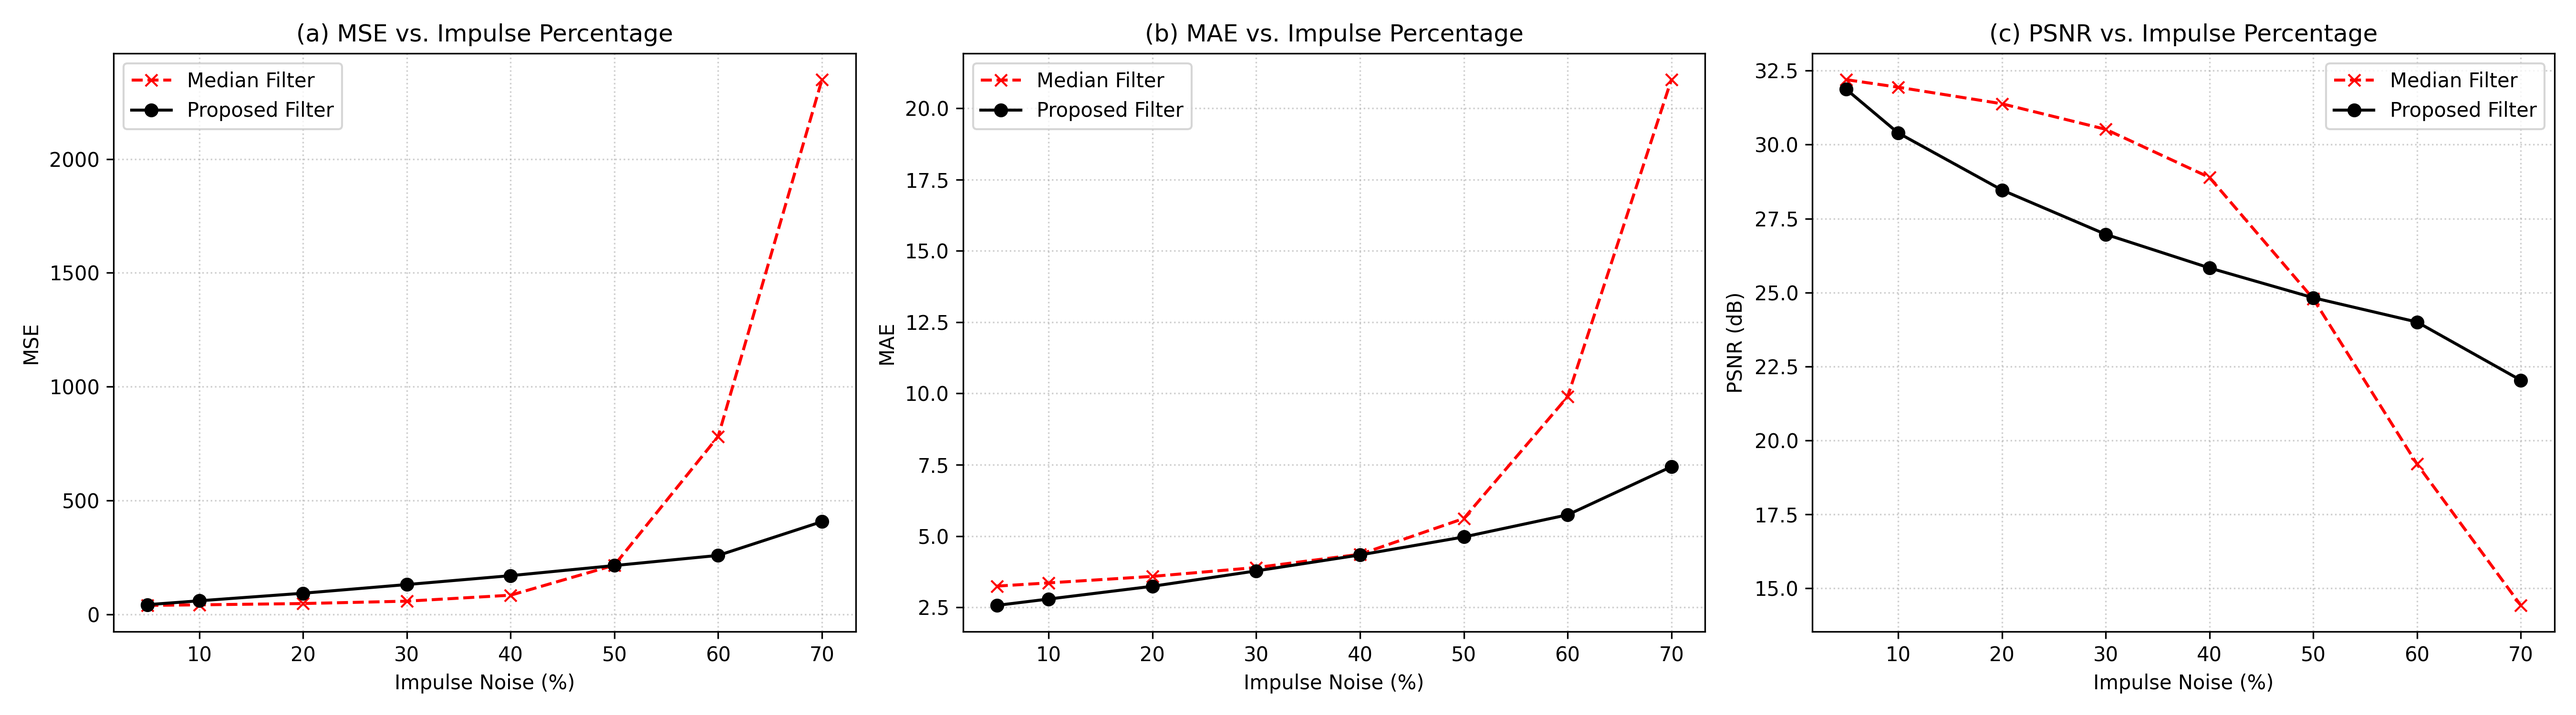
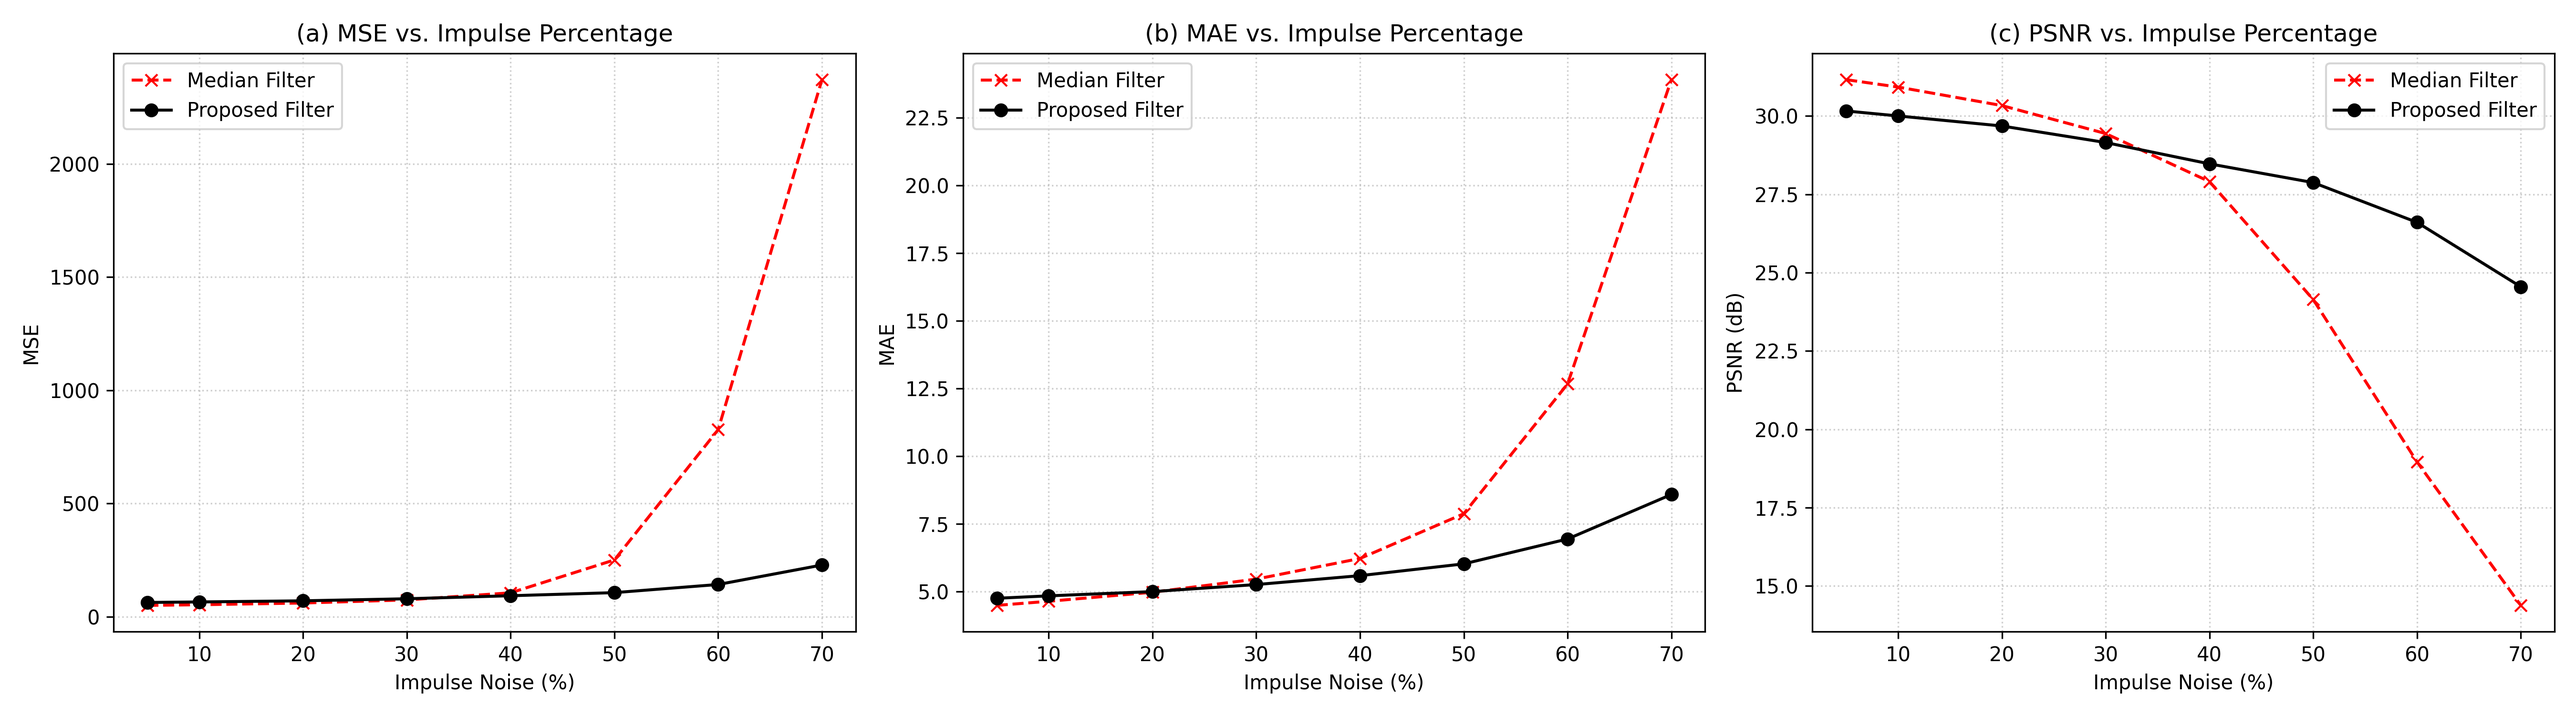
Updated inference flow

diff --git a/evaluate.py b/evaluate.py
@@ -4,91 +4,124 @@ import pandas as pd
 import time
 from src.filters import selective_peeling_filter, fuzzy_weighted_linear_filter
 from src.utils import mse, mae, psnr, add_salt_pepper, add_gaussian_noise
+import matplotlib.pyplot as plt
 
-def run_hybrid_filter(img, peel_iter=2, fuzzy_sigma=10.0):
-    # Bước 1: Bộ lọc phi tuyến (Peeling) để loại bỏ nhiễu xung
-    # Threshold=25 và Iterations=2 là tham số khuyến nghị cho ảnh nhiều nhiễu
-    step1 = selective_peeling_filter(img, window_size=5, threshold=25, iterations=peel_iter)
+def run_hybrid_filter(img, peel_iter=2, fuzzy_sigma=130.0):
+    step1 = selective_peeling_filter(img, window_size=5, threshold=30, iterations=peel_iter)
     
-    # Bước 2: Bộ lọc tuyến tính (Fuzzy) để loại bỏ nhiễu Gaussian còn sót và làm mịn
     step2 = fuzzy_weighted_linear_filter(step1, window_size=5, sigma=fuzzy_sigma)
     return step2
 
-def evaluate_table_2(original_img):
-    """
-    Tái tạo Table 2: So sánh MSE, MAE, PSNR theo % nhiễu xung (Impulse Noise).
-    Chạy từ 5% đến 60% như bài báo.
-    """
-    print("\n" + "="*60)
-    print("GENERATING TABLE 2: Performance vs Impulse Noise Density")
-    print("Note: Chạy trên ảnh gốc, vui lòng đợi...")
-    print("="*60)
-    
-    # Các mức nhiễu cần test (tương tự Table 2 trong bài báo)
-    noise_levels = [0.05, 0.10, 0.20, 0.30, 0.40, 0.50, 0.60]
-    results = []
+def evaluate_1(original_img):
+    print("Đang tính toán các chỉ số cho biểu đồ (sẽ mất vài phút)...")
 
-    for p in noise_levels:
-        print(f"Processing noise level: {int(p*100)}%...", end=" ", flush=True)
-        start_t = time.time()
+    noise_percents = [5, 10, 20, 30, 40, 50, 60, 70]
+
+    g_sigma = 10
+    
+    # Lưu kết quả
+    metrics = {
+        "mse": {"hybrid": [], "median": []},
+        "mae": {"hybrid": [], "median": []},
+        "psnr": {"hybrid": [], "median": []}
+    }
+
+    for p in noise_percents:
+        prob = p / 100.0
+        print(f"Processing noise: {p}%...", end=" ", flush=True)
         
-        # 1. Tạo ảnh nhiễu muối tiêu
-        noisy_img = add_salt_pepper(original_img, prob=p)
+        noisy_img = add_gaussian_noise(original_img, mean=0, sigma=g_sigma)
+        noisy_img = add_salt_pepper(noisy_img, prob=prob)
         
-        # 2. Chạy Filter của BẠN (Proposed Hybrid)
-        # Với nhiễu cao (>30%), tăng số lần peeling lên để hiệu quả hơn
-        iters = 2 if p < 0.4 else 3
+        # --- Filter 1: Proposed Hybrid ---
+        # Tăng số lần peel với nhiễu cao để hiệu quả hơn (như bài báo gợi ý)
+        iters = 2 if prob < 0.4 else 4
         hybrid_res = run_hybrid_filter(noisy_img, peel_iter=iters)
         
-        # 3. Chạy Median Filter (OpenCV chuẩn) để so sánh
+        # --- Filter 2: Standard Median (OpenCV) ---
         median_res = cv2.medianBlur(noisy_img, 5)
         
-        elapsed = time.time() - start_t
-        print(f"Done ({elapsed:.1f}s)")
+        # Tính metrics
+        metrics["mse"]["hybrid"].append(mse(original_img, hybrid_res))
+        metrics["mse"]["median"].append(mse(original_img, median_res))
         
-        # 4. Tính Metrics
-        res_row = {
-            "Noise %": f"{int(p*100)}%",
-            "MSE (Ours)": f"{mse(original_img, hybrid_res):.1f}",
-            "MSE (Med)": f"{mse(original_img, median_res):.1f}",
-            "MAE (Ours)": f"{mae(original_img, hybrid_res):.2f}",
-            "MAE (Med)": f"{mae(original_img, median_res):.2f}",
-            "PSNR (Ours)": f"{psnr(original_img, hybrid_res):.2f}",
-            "PSNR (Med)": f"{psnr(original_img, median_res):.2f}",
-        }
-        results.append(res_row)
+        metrics["mae"]["hybrid"].append(mae(original_img, hybrid_res))
+        metrics["mae"]["median"].append(mae(original_img, median_res))
+        
+        metrics["psnr"]["hybrid"].append(psnr(original_img, hybrid_res))
+        metrics["psnr"]["median"].append(psnr(original_img, median_res))
+        
+        print("Done.")
 
-    df = pd.DataFrame(results)
-    print("\n=== KẾT QUẢ TABLE 2 (Tái tạo) ===")
-    print(df.to_string(index=False))
-    return df
+    print("Đang vẽ biểu đồ...")
+    
+    fig, axes = plt.subplots(1, 3, figsize=(18, 5))
+    
+    style_hybrid = {'color': 'black', 'marker': 'o', 'linestyle': '-', 'label': 'Proposed Filter'}
+    style_median = {'color': 'red', 'marker': 'x', 'linestyle': '--', 'label': 'Median Filter'}
 
-def evaluate_table_1(original_img):
+    # Plot (a) MSE
+    ax = axes[0]
+    ax.plot(noise_percents, metrics["mse"]["median"], **style_median)
+    ax.plot(noise_percents, metrics["mse"]["hybrid"], **style_hybrid)
+    ax.set_title('(a) MSE vs. Impulse Percentage')
+    ax.set_xlabel('Impulse Noise (%)')
+    ax.set_ylabel('MSE')
+    ax.legend()
+    ax.grid(True, linestyle=':', alpha=0.6)
+
+    # Plot (b) MAE
+    ax = axes[1]
+    ax.plot(noise_percents, metrics["mae"]["median"], **style_median)
+    ax.plot(noise_percents, metrics["mae"]["hybrid"], **style_hybrid)
+    ax.set_title('(b) MAE vs. Impulse Percentage')
+    ax.set_xlabel('Impulse Noise (%)')
+    ax.set_ylabel('MAE')
+    ax.legend()
+    ax.grid(True, linestyle=':', alpha=0.6)
+
+    # Plot (c) PSNR
+    ax = axes[2]
+    ax.plot(noise_percents, metrics["psnr"]["median"], **style_median)
+    ax.plot(noise_percents, metrics["psnr"]["hybrid"], **style_hybrid)
+    ax.set_title('(c) PSNR vs. Impulse Percentage')
+    ax.set_xlabel('Impulse Noise (%)')
+    ax.set_ylabel('PSNR (dB)')
+    ax.legend()
+    ax.grid(True, linestyle=':', alpha=0.6)
+
+    plt.tight_layout()
+    
+    output_file = "figure_2_replication.png"
+    plt.savefig(output_file, dpi=300)
+    print(f"Đã lưu biểu đồ tại: {output_file}")
+    plt.show()
+
+def evaluate_2(original_img):
     """
     Tái tạo Table 1: So sánh các bộ lọc trong môi trường nhiễu hỗn hợp.
     Mô hình: Gaussian (sigma=10) + Impulsive (chọn 20% làm mẫu).
     """
     print("\n" + "="*60)
     print("GENERATING TABLE 1: Mixed Noise Comparison")
-    print("Scenario: Gaussian(sigma=10) + Salt&Pepper(20%)")
+    print("Scenario: Gaussian(sigma=10) + Salt&Pepper")
     print("="*60)
     
     g_sigma = 10
-    impulse_prob = 0.20
+    impulse_prob = 0.4
     
     # Tạo nhiễu hỗn hợp: Cộng Gaussian trước, sau đó rải muối tiêu
     temp = add_gaussian_noise(original_img, mean=0, sigma=g_sigma)
     noisy_mixed = add_salt_pepper(temp, prob=impulse_prob)
     
-    # 1. Metrics ảnh nhiễu
     m_noisy = [mse(original_img, noisy_mixed), mae(original_img, noisy_mixed), psnr(original_img, noisy_mixed)]
 
-    # 2. Average Filter (Linear) - đại diện cho Linear Filters
+    # 2. Average Filter (Linear)
     print("Running Average Filter...")
     avg_res = cv2.blur(noisy_mixed, (5,5))
     m_avg = [mse(original_img, avg_res), mae(original_img, avg_res), psnr(original_img, avg_res)]
 
-    # 3. Median Filter (Nonlinear) - đại diện cho Nonlinear Filters
+    # 3. Median Filter (Nonlinear)
     print("Running Median Filter...")
     med_res = cv2.medianBlur(noisy_mixed, 5)
     m_med = [mse(original_img, med_res), mae(original_img, med_res), psnr(original_img, med_res)]
@@ -108,11 +141,57 @@ def evaluate_table_1(original_img):
     }
     
     df = pd.DataFrame(data)
-    print("\n=== KẾT QUẢ TABLE 1 (Tái tạo) ===")
+    print("\n=== KẾT QUẢ TABLE 1 ===")
     print(df.to_string(index=False))
 
+
+def evaluate_3(original_img):
+    fig, axes = plt.subplots(1, 5, figsize=(10, 6))
+
+    # Gaussian (0, 10^2) + Salt & Pepper Noise
+    g_sigma = 10
+    impulse_prob = 0.4
+
+    noisy_img = add_gaussian_noise(original_img, mean=0, sigma=g_sigma)
+    noisy_img = add_salt_pepper(noisy_img, prob=impulse_prob)
+
+    # Filter 1: Proposed 
+    proposed_res = run_hybrid_filter(noisy_img, peel_iter=2)
+
+    # Filter 2: Median
+    median_res = cv2.medianBlur(noisy_img, 5)
+
+    # Filter 3: Average
+    average_res = cv2.blur(noisy_img, (5,5))
+
+    output_img = original_img
+
+    axes[0].imshow(output_img, cmap='gray')
+    axes[0].set_title("Original Lena Image")
+    
+    axes[1].imshow(noisy_img, cmap='gray')
+    axes[1].set_title(f"Noisy\nMSE={mse(original_img, noisy_img):.4f}")
+    
+    axes[2].imshow(proposed_res, cmap='gray')
+    axes[2].set_title(f"Proposed\nMSE={mse(original_img, proposed_res):.4f}")
+
+    axes[3].imshow(median_res, cmap='gray')
+    axes[3].set_title(f"Median\nMSE={mse(original_img, median_res):.4f}")
+    
+    axes[4].imshow(average_res, cmap='gray')
+    axes[4].set_title(f"Average\nMSE={mse(original_img, average_res):.4f}")
+
+    for ax in axes: ax.axis('off')
+    plt.tight_layout()
+
+    output_file = "figure_3_replication.png"
+    plt.savefig(output_file, dpi=300)
+    print(f"Đã lưu biểu đồ tại: {output_file}")
+    plt.show()
+
 def main():
-    # Đọc ảnh (Đảm bảo đường dẫn đúng)
+    np.random.seed(42)
+
     img_path = "data/lena.tif" 
     img = cv2.imread(img_path, cv2.IMREAD_GRAYSCALE)
 
@@ -122,13 +201,12 @@ def main():
 
     print(f"Đã load ảnh: {img_path} với kích thước gốc: {img.shape}")
     
-    # Xử lý ảnh 16-bit nếu cần
     if img.dtype == 'uint16':
-        img = (img / 256).astype('uint8')
+        img = (img / 255.0).astype('uint8')
 
-    # Chạy đánh giá
-    evaluate_table_2(img)
-    evaluate_table_1(img)
+    evaluate_2(img)
+    evaluate_1(img)
+    evaluate_3(img)
 
 if __name__ == "__main__":
     main()

diff --git a/src/hybrid_filter.py b/src/hybrid_filter.py
@@ -76,8 +76,6 @@ def fuzzy_weighted_linear_filter_optimized(img, window_size=5, sigma=10.0):
     img_float = img.astype(np.float32)
     filtered = np.zeros_like(img_float)
     
-    # Precompute Gaussian lookup table (Fuzzy Membership)
-    # Range 0-255
     fuzzy_table = np.exp(-(np.arange(256)**2) / (2 * sigma**2))
     
     for i in range(pad, h - pad):
@@ -87,21 +85,17 @@ def fuzzy_weighted_linear_filter_optimized(img, window_size=5, sigma=10.0):
             numerator = 0.0
             denominator = 0.0
             
-            # Convolve manually for speed in Numba
             for m in range(-pad, pad + 1):
                 for n in range(-pad, pad + 1):
                     neighbor_val = img_float[i + m, j + n]
                     
-                    # Calculate Difference (Delta x)
                     diff = int(abs(neighbor_val - center_val))
                     
-                    # Lookup Fuzzy Weight
                     weight = fuzzy_table[diff]
                     
                     numerator += weight * neighbor_val
                     denominator += weight
             
-            # Avoid division by zero
             if denominator > 0:
                 filtered[i, j] = numerator / denominator
             else:

diff --git a/plot.py b/plot.py
@@ -7,9 +7,9 @@ from src.utils import mse, mae, psnr, add_salt_pepper
 
 def run_hybrid_filter(img, peel_iter=2, fuzzy_sigma=10.0):
     # Step 1: Selective Peeling
-    step1 = selective_peeling_filter(img, window_size=5, threshold=25, iterations=peel_iter)
+    step1 = selective_peeling_filter(img, window_size=3, threshold=30, iterations=peel_iter)
     # Step 2: Fuzzy Weighted
-    step2 = fuzzy_weighted_linear_filter(step1, window_size=5, sigma=fuzzy_sigma)
+    step2 = fuzzy_weighted_linear_filter(step1, window_size=3, sigma=fuzzy_sigma)
     return step2
 
 def main():
@@ -49,7 +49,7 @@ def main():
         hybrid_res = run_hybrid_filter(noisy_img, peel_iter=iters)
         
         # --- Filter 2: Standard Median (OpenCV) ---
-        median_res = cv2.medianBlur(noisy_img, 5)
+        median_res = cv2.medianBlur(noisy_img, 3)
         
         # Tính metrics
         metrics["mse"]["hybrid"].append(mse(original, hybrid_res))

diff --git a/main.py b/main.py
@@ -68,10 +68,10 @@ def main():
     print("MSE:", mse(original, noisy_img))
     print("MAE:", mae(original, noisy_img))
     print("PSNR:", psnr(original, noisy_img))
-    print("--- Filter for Original ---")
-    print("MSE:", mse(original, filtered))
-    print("MAE:", mae(original, filtered))
-    print("PSNR:", psnr(original, filtered))
+    # print("--- Filter for Original ---")
+    # print("MSE:", mse(original, filtered))
+    # print("MAE:", mae(original, filtered))
+    # print("PSNR:", psnr(original, filtered))
     print("--- Filter for Noisy ---")
     print("MSE:", mse(original, filtered_noisy))
     print("MAE:", mae(original, filtered_noisy))

diff --git a/src/filters.py b/src/filters.py
@@ -1,6 +1,6 @@
 import numpy as np
 
-def selective_peeling_filter(img, window_size=3, threshold=30, iterations=1):
+def selective_peeling_filter(img, window_size=3, threshold=50, iterations=1):
     """
     Step 1: Selective-Peeling to remove impulsive noise.
     img: grayscale image (numpy array)
